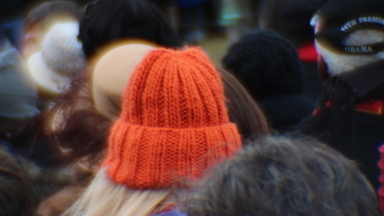
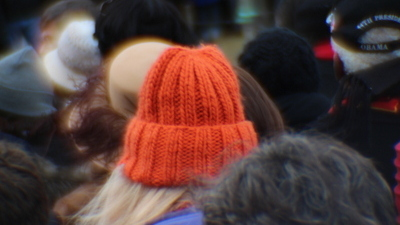
Simplification

diff --git a/index.html b/index.html
@@ -7,46 +7,21 @@
     <h1>MJ Photography</h1>
     <nav class="clearfix">
             <a href="index.html">Portfolio</a>
-            <a href="about.html">My Story</a>
+            <a href="about.html">About</a>
         </nav>
 </header>
 
 <body>
-        <section id="foodanddrink">
-            <h2>Food &amp; Drink</h2>
-            <div id="foodanddrinkpictures" class="clearfix">
-                    <img src="images/BandWmartini.jpg" alt="Martini glass in black and white taken in Savannah Georgia" title="Martini glass in black and white taken in Savannah Georgia">
-                    <img src="images/BandWtopmartini.jpg" alt="top of a martini glass in black and white taken in Savannah Georgia" title="top of a martini glass in black and white taken in Savannah Georgia">        
-                    <img src="images/colormartini.jpg" alt="Martini glass in orange color" title="Martini glass in orange color">
-            </div>
-        </section>
-        <section id="lifestyle" class="clearfix">       
-            <h2>Lifestyle</h2>
-            <img src="images/MarissaPool.jpg" alt="girl playing pool" title="girl playing pool">
-            <img src="images/lamp.jpg" alt="lamp" title="lamp">
+      <section id="images">      
+            <img src="images/BandWtopmartini.jpg" alt="top of a martini glass in black and white taken in Savannah Georgia" title="top of a martini glass in black and white taken in Savannah Georgia">       
             <img src="images/pacman.jpg" alt="close up view of a pacman machine" title="close up view of a pacman machine">
             <img src="images/saxophone2.jpg" alt="close up of a saxophone" title="close up of a saxophone">
             <img src="images/jackitattoo.jpg" alt="girl with a shoulder tattoo" title="girl with a shoulder tattoo">
-            <img src="images/saxophone.jpg" alt="close up of a saxophone" title="close up of a saxophone" class="saxophonefullwidth">
-        </section>
-        <section id="Atlanta" class="clearfix">
-            <h2>Atlanta</h2>
             <img src="images/atlskylinetrees.jpg" alt="Atlanta skyline at dusk through the trees" title="Atlanta skyline at dusk through the trees">
-            <img src="images/atlpiedmontpark.jpg" alt="Atlanta skyline from Piedmont Park" title="Atlanta skyline from Piedmont Park">
             <img src="images/redstripeatl.jpg" alt="red stripe flag with atlanta skyline in the background" title="red stripe flag with atlanta skyline in the background">
-            <img src="images/redstripeatlband.jpg" alt="red stripe beer can with band in the background" title="red stripe beer can with band in the background">
-        </section>
-        <section id="WashingtonDC" class="clearfix">
-            <h2>Washington DC</h2>
-            <img src="images/dchouses.jpg" alt="American flag on porch of Washington DC row house" title="American flag on porch of Washington DC row house">
-            <img src="images/dirtroad.jpg" alt="dirt road at George Washington's former home" title="dirt road at George Washington's former home">
-            <img src="images/Obama.jpg" alt="crowds at Obama inauguration" title="crowds at Obama inauguration">
-        </section>
-        <section id="Athens" class="clearfix">
-            <h2>Athens</h2>
             <img src="images/Mopeds.jpg" alt="mopeds through a black grate" title="mopeds through a black grate">
             <img src="images/redcurtains.jpg" alt="close up of a red sheer curtain" title="close up of a red sheer curtain">
-            <img src="images/thegrit.jpg" alt="turquoise back door of the the grit restaurant in Athens" title="turquoise back door of the the grit restaurant in Athens">
+            <img src="images/Obama.jpg" alt="girl with orange hat at Obama inauguration" title="girl with orange hat at Obama inauguration">
         </section>
     <footer>    
     		<a href="mailto:megvic87@gmail.com?subject=MJ Photography" target="_blank"><img src="images/icons/email.png" alt="email icon" title="email icon"></a>

diff --git a/oldindex.html b/oldindex.html
@@ -1,0 +1,56 @@
+<!DOCTYPE html>
+<html> 
+<header>
+    <meta charset="utf-8">  
+    <title>MJ Photography</title>
+    <link rel="stylesheet" type="text/css" href="style.css">
+    <h1>MJ Photography</h1>
+    <nav class="clearfix">
+            <a href="index.html">Portfolio</a>
+            <a href="about.html">My Story</a>
+        </nav>
+</header>
+
+<body>
+        <section id="foodanddrink">
+            <h2>Food &amp; Drink</h2>
+            <div id="foodanddrinkpictures" class="clearfix">
+                    <img src="images/BandWmartini.jpg" alt="Martini glass in black and white taken in Savannah Georgia" title="Martini glass in black and white taken in Savannah Georgia">
+                    <img src="images/BandWtopmartini.jpg" alt="top of a martini glass in black and white taken in Savannah Georgia" title="top of a martini glass in black and white taken in Savannah Georgia">        
+                    <img src="images/colormartini.jpg" alt="Martini glass in orange color" title="Martini glass in orange color">
+            </div>
+        </section>
+        <section id="lifestyle" class="clearfix">       
+            <h2>Lifestyle</h2>
+            <img src="images/MarissaPool.jpg" alt="girl playing pool" title="girl playing pool">
+            <img src="images/lamp.jpg" alt="lamp" title="lamp">
+            <img src="images/pacman.jpg" alt="close up view of a pacman machine" title="close up view of a pacman machine">
+            <img src="images/saxophone2.jpg" alt="close up of a saxophone" title="close up of a saxophone">
+            <img src="images/jackitattoo.jpg" alt="girl with a shoulder tattoo" title="girl with a shoulder tattoo">
+            <img src="images/saxophone.jpg" alt="close up of a saxophone" title="close up of a saxophone" class="saxophonefullwidth">
+        </section>
+        <section id="Atlanta" class="clearfix">
+            <h2>Atlanta</h2>
+            <img src="images/atlskylinetrees.jpg" alt="Atlanta skyline at dusk through the trees" title="Atlanta skyline at dusk through the trees">
+            <img src="images/atlpiedmontpark.jpg" alt="Atlanta skyline from Piedmont Park" title="Atlanta skyline from Piedmont Park">
+            <img src="images/redstripeatl.jpg" alt="red stripe flag with atlanta skyline in the background" title="red stripe flag with atlanta skyline in the background">
+            <img src="images/redstripeatlband.jpg" alt="red stripe beer can with band in the background" title="red stripe beer can with band in the background">
+        </section>
+        <section id="WashingtonDC" class="clearfix">
+            <h2>Washington DC</h2>
+            <img src="images/dchouses.jpg" alt="American flag on porch of Washington DC row house" title="American flag on porch of Washington DC row house">
+            <img src="images/dirtroad.jpg" alt="dirt road at George Washington's former home" title="dirt road at George Washington's former home">
+            <img src="images/Obama.jpg" alt="crowds at Obama inauguration" title="crowds at Obama inauguration">
+        </section>
+        <section id="Athens" class="clearfix">
+            <h2>Athens</h2>
+            <img src="images/Mopeds.jpg" alt="mopeds through a black grate" title="mopeds through a black grate">
+            <img src="images/redcurtains.jpg" alt="close up of a red sheer curtain" title="close up of a red sheer curtain">
+            <img src="images/thegrit.jpg" alt="turquoise back door of the the grit restaurant in Athens" title="turquoise back door of the the grit restaurant in Athens">
+        </section>
+    <footer>    
+    		<a href="mailto:megvic87@gmail.com?subject=MJ Photography" target="_blank"><img src="images/icons/email.png" alt="email icon" title="email icon"></a>
+    		<a href="https://www.linkedin.com/hp/?dnr=YFvMAYbBSsxw-AU7YCzMNt5KSRZw3-b4BWU" target="_blank"><img src="images/icons/linkedin.png" alt="Link to LinkedIn account" title="LinkedIn Icon"></a>
+    </footer>
+</body>
+</html>

diff --git a/oldstyle.css b/oldstyle.css
@@ -9,10 +9,8 @@ body{
 	background-color: #E0E3E5;
 	font-size:18px;
 	font-family: 'Noto', sans-serif;
-	padding: 1%;
+	padding: 3em;
 	color: #4F524F;
-	margin: 1%;
-	padding: .5%;
 }
 nav{
 	font-size: 1.5em;
@@ -22,8 +20,8 @@ nav a{
 	color: #4F524F;
 	display: block;
 	float: left;
-	margin: 1%;
-	padding: .5%;
+	margin: 2em;
+	padding: .5em;
 }
 a:hover{
 	background-color: #5A8FB2;
@@ -35,15 +33,18 @@ a:hover{
    height: 0; 
    clear: both;
 }
+img{
+	background-image: url(BandWtopmartini.jpg);
+}
 section#images{
 	float: left;
-	margin:4% auto;
-	padding:3%;
+	margin:4em auto;
+	padding:3em;
 }
 footer{
 	font-size: .75em;
 	text-align: center;
-	padding: 2%;
+	padding: 2em;
 }
 .clearfix:after { 
    content: "."; 
@@ -52,9 +53,4 @@ footer{
    height: 0; 
    clear: both;
 }
-@media only screen and (min-width: 768px)
-@media only screen and (max-width: 768px)
-@media only screen and (min-width: 320px) and (max-width: 480px) {
-	nav{ 
-		float: none;
-	}
+
